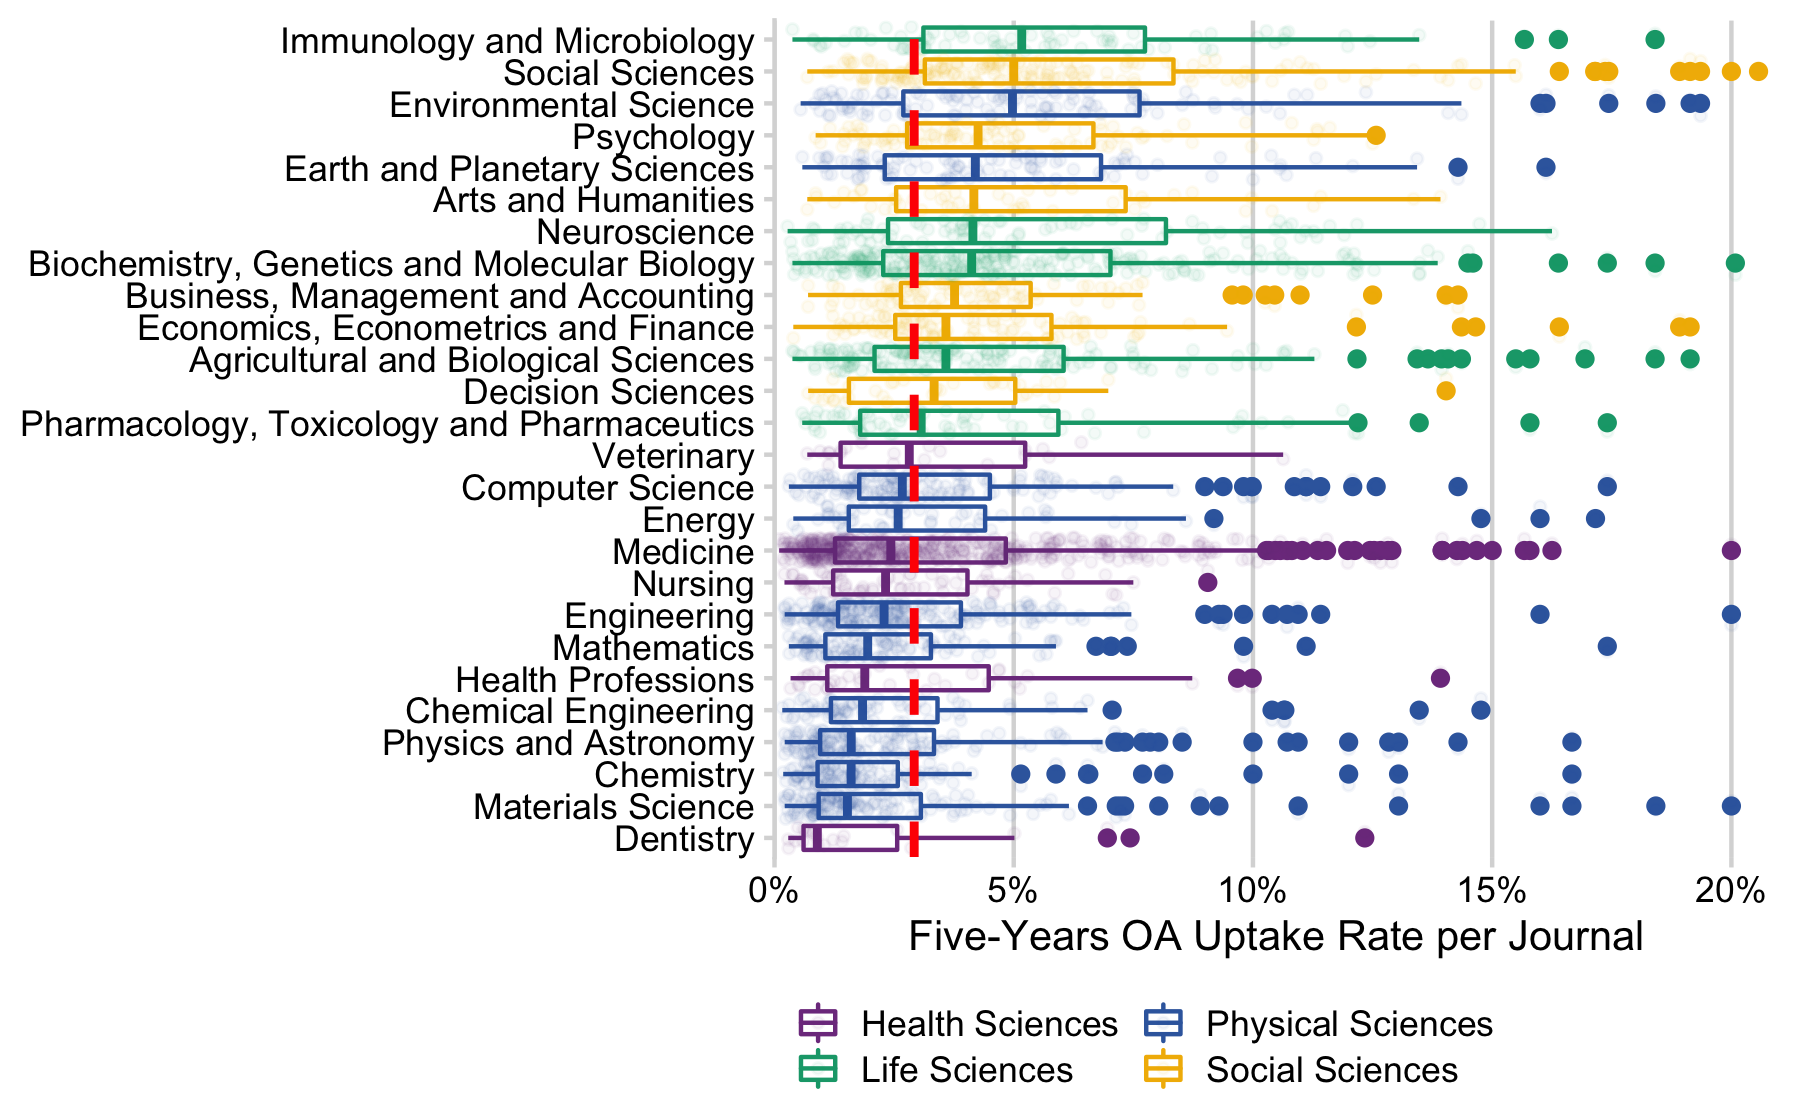
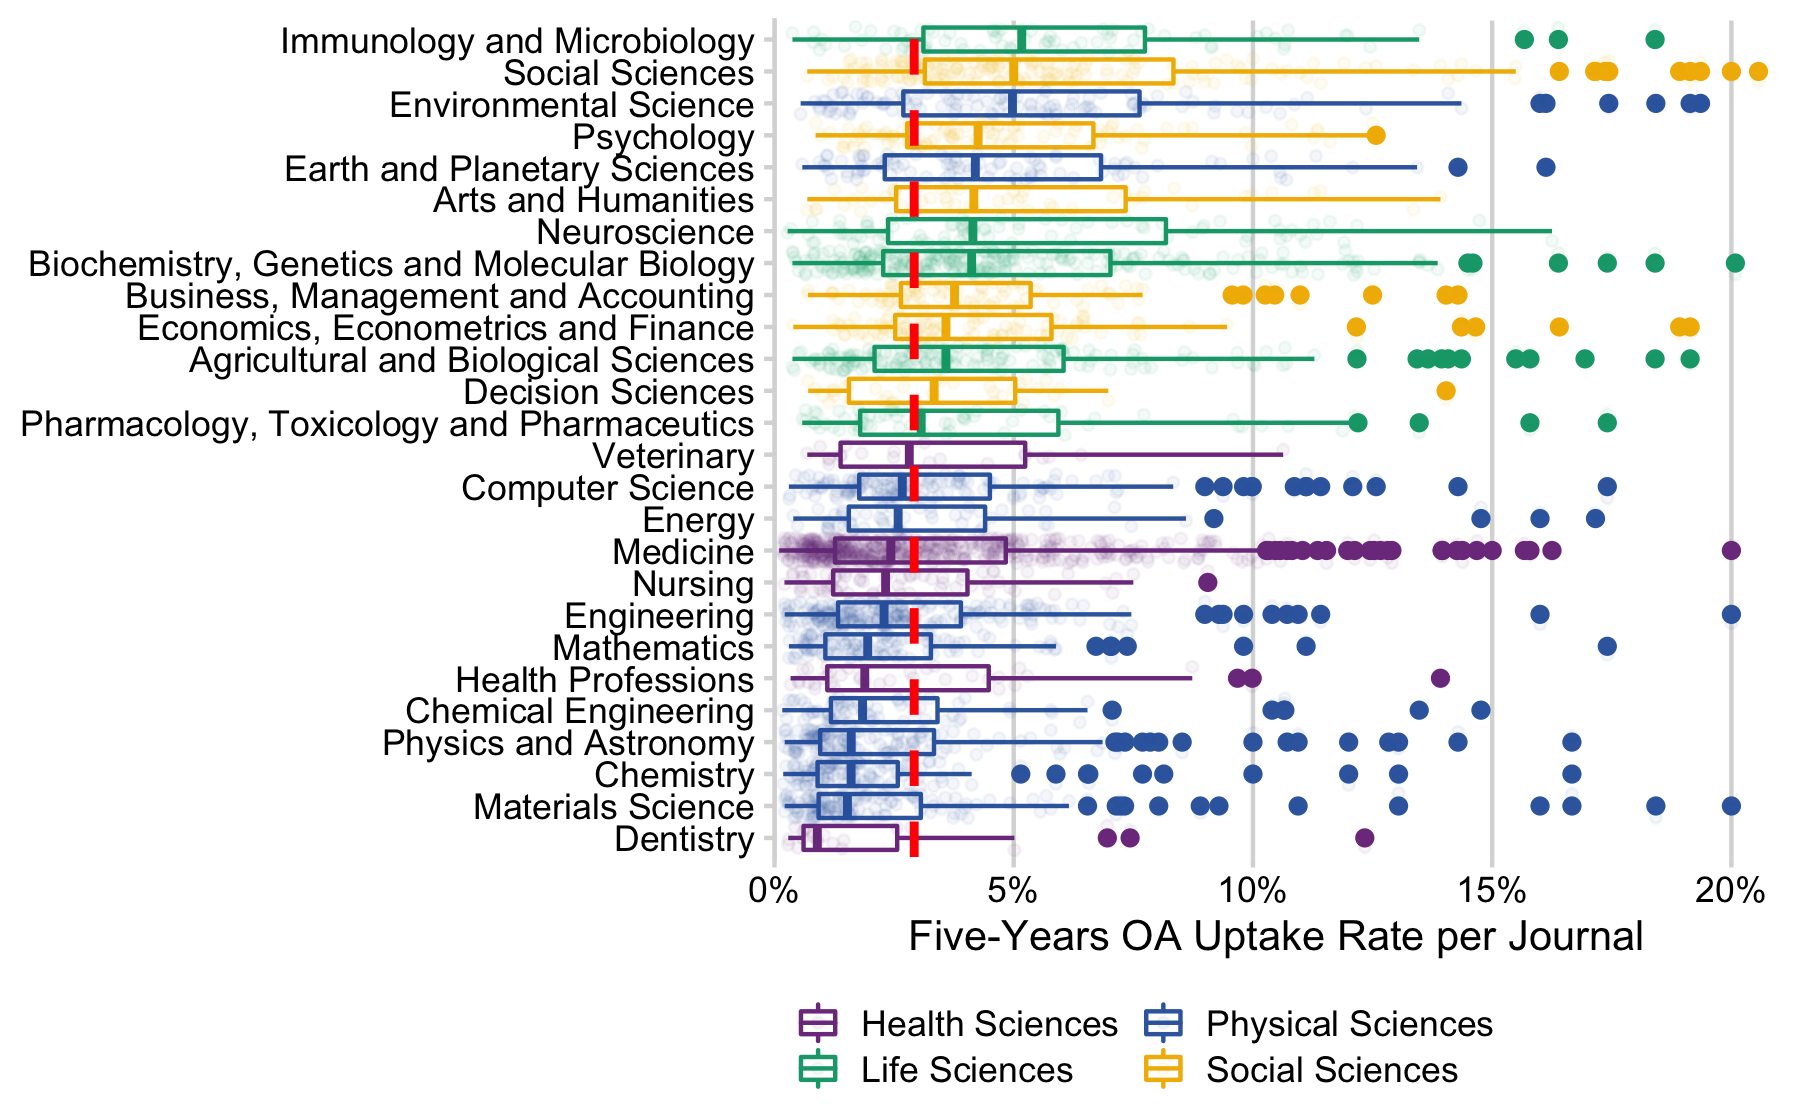
co-occurence matrix funder/subject

diff --git a/analysis/008_subject_exploration.md b/analysis/008_subject_exploration.md
@@ -155,7 +155,7 @@ median_all <- subject_all_years %>%
   .$prop %>% 
   median()
 
-ggplot(subject_all_years, aes(fct_reorder(description, n / n_oa, .fun = median, .desc = TRUE), n_oa / n)) + 
+ggplot(subject_all_years, aes(fct_reorder(description, n_oa / n, .fun = median), n_oa / n)) + 
   geom_boxplot(aes(color = subject_area)) +
   geom_jitter(alpha = .05, aes(color = subject_area), size = 1) +
   geom_hline(yintercept = median_all,  colour = "red", linetype ="dashed", size = 1) +
@@ -383,7 +383,7 @@ funder_overview_subject %>%
   font-family: -apple-system, BlinkMacSystemFont, 'Segoe UI', Roboto, Oxygen, Ubuntu, Cantarell, 'Helvetica Neue', 'Fira Sans', 'Droid Sans', Arial, sans-serif;
 }
 
-#qarqbhbwcf .gt_table {
+#uvheltmgoi .gt_table {
   display: table;
   border-collapse: collapse;
   margin-left: auto;
@@ -408,7 +408,7 @@ funder_overview_subject %>%
   border-left-color: #D3D3D3;
 }
 
-#qarqbhbwcf .gt_heading {
+#uvheltmgoi .gt_heading {
   background-color: #FFFFFF;
   text-align: center;
   border-bottom-color: #FFFFFF;
@@ -420,7 +420,7 @@ funder_overview_subject %>%
   border-right-color: #D3D3D3;
 }
 
-#qarqbhbwcf .gt_title {
+#uvheltmgoi .gt_title {
   color: #333333;
   font-size: 125%;
   font-weight: initial;
@@ -430,7 +430,7 @@ funder_overview_subject %>%
   border-bottom-width: 0;
 }
 
-#qarqbhbwcf .gt_subtitle {
+#uvheltmgoi .gt_subtitle {
   color: #333333;
   font-size: 85%;
   font-weight: initial;
@@ -440,13 +440,13 @@ funder_overview_subject %>%
   border-top-width: 0;
 }
 
-#qarqbhbwcf .gt_bottom_border {
+#uvheltmgoi .gt_bottom_border {
   border-bottom-style: solid;
   border-bottom-width: 2px;
   border-bottom-color: #D3D3D3;
 }
 
-#qarqbhbwcf .gt_col_headings {
+#uvheltmgoi .gt_col_headings {
   border-top-style: solid;
   border-top-width: 3px;
   border-top-color: white;
@@ -461,7 +461,7 @@ funder_overview_subject %>%
   border-right-color: #D3D3D3;
 }
 
-#qarqbhbwcf .gt_col_heading {
+#uvheltmgoi .gt_col_heading {
   color: #333333;
   background-color: #FFFFFF;
   font-size: 100%;
@@ -481,7 +481,7 @@ funder_overview_subject %>%
   overflow-x: hidden;
 }
 
-#qarqbhbwcf .gt_column_spanner_outer {
+#uvheltmgoi .gt_column_spanner_outer {
   color: #333333;
   background-color: #FFFFFF;
   font-size: 100%;
@@ -493,15 +493,15 @@ funder_overview_subject %>%
   padding-right: 4px;
 }
 
-#qarqbhbwcf .gt_column_spanner_outer:first-child {
+#uvheltmgoi .gt_column_spanner_outer:first-child {
   padding-left: 0;
 }
 
-#qarqbhbwcf .gt_column_spanner_outer:last-child {
+#uvheltmgoi .gt_column_spanner_outer:last-child {
   padding-right: 0;
 }
 
-#qarqbhbwcf .gt_column_spanner {
+#uvheltmgoi .gt_column_spanner {
   border-bottom-style: solid;
   border-bottom-width: 2px;
   border-bottom-color: black;
@@ -513,7 +513,7 @@ funder_overview_subject %>%
   width: 100%;
 }
 
-#qarqbhbwcf .gt_group_heading {
+#uvheltmgoi .gt_group_heading {
   padding: 8px;
   color: #333333;
   background-color: #FFFFFF;
@@ -535,7 +535,7 @@ funder_overview_subject %>%
   vertical-align: middle;
 }
 
-#qarqbhbwcf .gt_empty_group_heading {
+#uvheltmgoi .gt_empty_group_heading {
   padding: 0.5px;
   color: #333333;
   background-color: #FFFFFF;
@@ -550,15 +550,15 @@ funder_overview_subject %>%
   vertical-align: middle;
 }
 
-#qarqbhbwcf .gt_from_md > :first-child {
+#uvheltmgoi .gt_from_md > :first-child {
   margin-top: 0;
 }
 
-#qarqbhbwcf .gt_from_md > :last-child {
+#uvheltmgoi .gt_from_md > :last-child {
   margin-bottom: 0;
 }
 
-#qarqbhbwcf .gt_row {
+#uvheltmgoi .gt_row {
   padding-top: 8px;
   padding-bottom: 8px;
   padding-left: 5px;
@@ -577,7 +577,7 @@ funder_overview_subject %>%
   overflow-x: hidden;
 }
 
-#qarqbhbwcf .gt_stub {
+#uvheltmgoi .gt_stub {
   color: #333333;
   background-color: #FFFFFF;
   font-size: 100%;
@@ -589,7 +589,7 @@ funder_overview_subject %>%
   padding-left: 12px;
 }
 
-#qarqbhbwcf .gt_summary_row {
+#uvheltmgoi .gt_summary_row {
   color: #333333;
   background-color: #FFFFFF;
   text-transform: inherit;
@@ -599,7 +599,7 @@ funder_overview_subject %>%
   padding-right: 5px;
 }
 
-#qarqbhbwcf .gt_first_summary_row {
+#uvheltmgoi .gt_first_summary_row {
   padding-top: 8px;
   padding-bottom: 8px;
   padding-left: 5px;
@@ -609,7 +609,7 @@ funder_overview_subject %>%
   border-top-color: #D3D3D3;
 }
 
-#qarqbhbwcf .gt_grand_summary_row {
+#uvheltmgoi .gt_grand_summary_row {
   color: #333333;
   background-color: #FFFFFF;
   text-transform: inherit;
@@ -619,7 +619,7 @@ funder_overview_subject %>%
   padding-right: 5px;
 }
 
-#qarqbhbwcf .gt_first_grand_summary_row {
+#uvheltmgoi .gt_first_grand_summary_row {
   padding-top: 8px;
   padding-bottom: 8px;
   padding-left: 5px;
@@ -629,11 +629,11 @@ funder_overview_subject %>%
   border-top-color: #D3D3D3;
 }
 
-#qarqbhbwcf .gt_striped {
+#uvheltmgoi .gt_striped {
   background-color: rgba(128, 128, 128, 0.05);
 }
 
-#qarqbhbwcf .gt_table_body {
+#uvheltmgoi .gt_table_body {
   border-top-style: solid;
   border-top-width: 2px;
   border-top-color: #D3D3D3;
@@ -642,7 +642,7 @@ funder_overview_subject %>%
   border-bottom-color: #D3D3D3;
 }
 
-#qarqbhbwcf .gt_footnotes {
+#uvheltmgoi .gt_footnotes {
   color: #333333;
   background-color: #FFFFFF;
   border-bottom-style: none;
@@ -656,13 +656,13 @@ funder_overview_subject %>%
   border-right-color: #D3D3D3;
 }
 
-#qarqbhbwcf .gt_footnote {
+#uvheltmgoi .gt_footnote {
   margin: 0px;
   font-size: 90%;
   padding: 4px;
 }
 
-#qarqbhbwcf .gt_sourcenotes {
+#uvheltmgoi .gt_sourcenotes {
   color: #333333;
   background-color: #FFFFFF;
   border-bottom-style: none;
@@ -676,47 +676,47 @@ funder_overview_subject %>%
   border-right-color: #D3D3D3;
 }
 
-#qarqbhbwcf .gt_sourcenote {
+#uvheltmgoi .gt_sourcenote {
   font-size: 90%;
   padding: 4px;
 }
 
-#qarqbhbwcf .gt_left {
+#uvheltmgoi .gt_left {
   text-align: left;
 }
 
-#qarqbhbwcf .gt_center {
+#uvheltmgoi .gt_center {
   text-align: center;
 }
 
-#qarqbhbwcf .gt_right {
+#uvheltmgoi .gt_right {
   text-align: right;
   font-variant-numeric: tabular-nums;
 }
 
-#qarqbhbwcf .gt_font_normal {
+#uvheltmgoi .gt_font_normal {
   font-weight: normal;
 }
 
-#qarqbhbwcf .gt_font_bold {
+#uvheltmgoi .gt_font_bold {
   font-weight: bold;
 }
 
-#qarqbhbwcf .gt_font_italic {
+#uvheltmgoi .gt_font_italic {
   font-style: italic;
 }
 
-#qarqbhbwcf .gt_super {
+#uvheltmgoi .gt_super {
   font-size: 65%;
 }
 
-#qarqbhbwcf .gt_footnote_marks {
+#uvheltmgoi .gt_footnote_marks {
   font-style: italic;
   font-size: 65%;
 }
 </style>
 
-<div id="qarqbhbwcf" style="overflow-x:auto;overflow-y:auto;width:auto;height:auto;">
+<div id="uvheltmgoi" style="overflow-x:auto;overflow-y:auto;width:auto;height:auto;">
 
 <table class="gt_table" style="table-layout: fixed;">
 
@@ -1838,6 +1838,40 @@ Physics and Astronomy
 
 <!--/html_preserve-->
 
+## fields per funder
+
+``` r
+field_funder <- hybrid_volume %>%
+  filter(oa_sponsor_type == "FundingBody") %>% 
+  mutate(oa_sponsor = ifelse(is.na(oa_sponsor_name), "Other", oa_sponsor_name)) %>%
+   mutate(oa_sponsor = fct_infreq(oa_sponsor)) %>%
+  mutate(oa_sponsor = fct_lump_n(oa_sponsor, 10)) %>%
+  left_join(jn_subjects, by = "issn") %>%
+  filter(!is.na(top_level), top_level != "Multidisciplinary") %>%
+  group_by(oa_sponsor, top_level) %>%
+  summarise(n_oa_type = n_distinct(doi)) %>%
+  mutate(prop = n_oa_type / sum(n_oa_type)) %>%
+  mutate(oa_sponsor = fct_reorder(oa_sponsor, n_oa_type))
+ggplot(field_funder, aes(x = oa_sponsor, 
+                         y = reorder(top_level, desc(top_level)), 
+                         colour = prop, size = n_oa_type)) + 
+  geom_point() +
+  scale_color_viridis_c(labels = scales::percent_format(accuracy = 5L),
+                      option = "magma",
+                      name = "Percentage per funder",
+                      breaks =  scales::extended_breaks()) +
+  scale_x_discrete(position = "top") +
+  labs(x = NULL, y = NULL) +
+  theme_minimal_grid() +
+  theme(panel.grid.major = element_blank(), panel.grid.minor = element_blank(),
+panel.background = element_blank()) +
+  theme(legend.position = "top", legend.justification = "right") +
+  theme(legend.direction = "horizontal", legend.box = "vertical") +
+  theme(strip.text = element_text(face="bold"))
+```
+
+<img src="008_subject_exploration_files/figure-gfm/unnamed-chunk-18-1.png" width="70%" style="display: block; margin: auto;" />
+
 correlation funder / oa share
 
 ``` r
@@ -1861,7 +1895,7 @@ hybrid_funder_shares <- hybrid_volume %>%
   theme_cowplot()
 ```
 
-<img src="008_subject_exploration_files/figure-gfm/unnamed-chunk-18-1.png" width="70%" style="display: block; margin: auto;" />
+<img src="008_subject_exploration_files/figure-gfm/unnamed-chunk-19-1.png" width="70%" style="display: block; margin: auto;" />
 
 ``` r
 cor.test(hybrid_funder_shares$prop, hybrid_funder_shares$oa_prop, method = "spearman")
